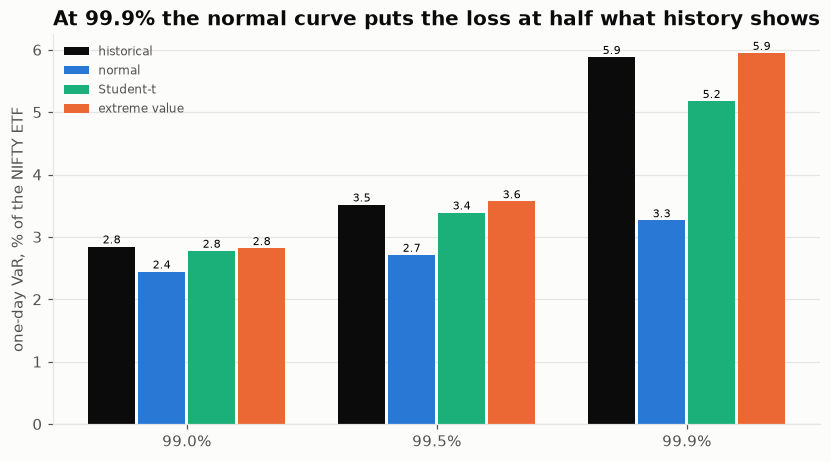
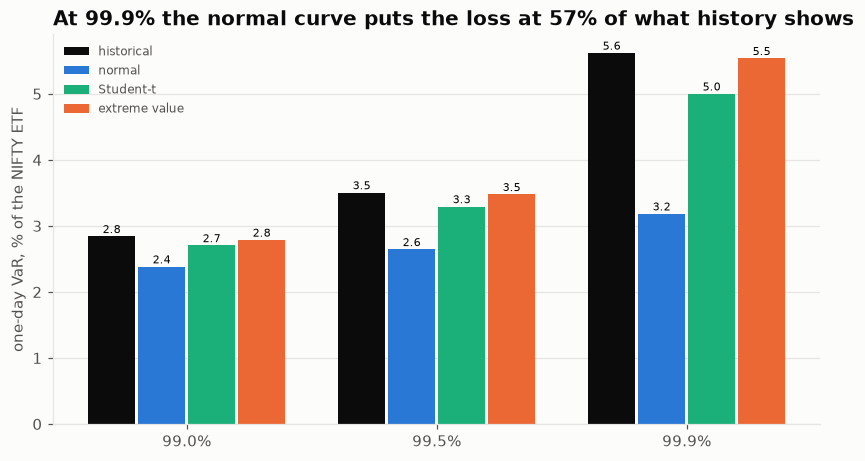
fix: repair a bad NIFTY ETF price on 5 Feb 2010 and restate the findings it distorted
Yahoo's close of 54.50 (the day's high, while NIFTY fell 2.6%) made a fake +10.8% day and a fake
−11.6% day, the ETF's largest loss. With it blanked, excess kurtosis is 14.0 not 17.7, the tail
shape is 0.21 not 0.27, and NIFTY had one 10% fall, not two. Findings 1, 3, 4, 5 and 6 are restated;
the reports now print every number the README quotes, and the EVT formulas handle a zero tail shape.

diff --git a/src/var/reports.py b/src/var/reports.py
@@ -69,7 +69,8 @@ def report_methods(out_dir: Path) -> dict:
              "Monte Carlo, Student-t": plots.SERIES[1]}
     for m, color in marks.items():
         v = -t[m][0] * CAPITAL / 1000
-        ax.axvline(v, color=color, ls="--", lw=1.2, label=f"99% VaR, {m}: ₹{-v:.1f}k")
+        short = {"Monte Carlo, Student-t": "Student-t MC"}.get(m, m)
+        ax.axvline(v, color=color, ls="--", lw=1.2, label=f"VaR, {short}: ₹{-v:.1f}k")
     ax.set_xlim(-60, 25)
     ax.annotate("days worse than −₹60k\npiled at the edge", (-59, 0.002), xytext=(-57, 0.012),
                 fontsize=8, color=plots.TEXT_2, arrowprops=dict(arrowstyle="-", color=plots.MUTED))
@@ -419,6 +420,7 @@ def report_es(out_dir: Path) -> dict:
     fig, ax = plt.subplots(figsize=(9, 4.6))
     years = sorted(set(nifty[names[0]]["x"].index.year))
     xs = np.arange(len(years))
+    gaps = {}
     for j, (k, color) in enumerate((("historical, 250 days", plots.SERIES[1]),
                                     ("filtered historical, EWMA", plots.SERIES[0]))):
         d = nifty[k]
@@ -426,6 +428,7 @@ def report_es(out_dir: Path) -> dict:
         actual = (-d["x"][hit]).groupby(hit[hit].index.year).mean()
         forecast = d["es"][hit].groupby(hit[hit].index.year).mean()
         gap = ((actual - forecast) * 100).reindex(years)
+        gaps[k] = round(float(gap.get(2020, np.nan)), 2)
         ax.bar(xs - 0.2 + 0.4 * j, gap, 0.38, color=color, label=k)
     ax.axhline(0, color=plots.TEXT, lw=1)
     ax.set_xticks(xs, years, fontsize=8)
@@ -435,10 +438,12 @@ def report_es(out_dir: Path) -> dict:
     ax.set_title("When breached, losses beat the one-year forecast most in 2020")
     plots.save(fig, out_dir, "es_by_year")
 
-    return {port: {k: (f"ES97.5 {v['es_mean']:.2%}", f"VaR99 {v['var99_mean']:.2%}",
-                       f"ratio {v['es_mean'] / v['var99_mean']:.2f}",
-                       f"breach97.5 {v['breach']:.2%}", f"Z2 {v['z2']:.3f}", f"p {v['p']:.3f}")
-                   for k, v in rows.items()} for port, rows in res.items()}
+    out = {port: {k: (f"ES97.5 {v['es_mean']:.2%}", f"VaR99 {v['var99_mean']:.2%}",
+                      f"ratio {v['es_mean'] / v['var99_mean']:.2f}",
+                      f"breach97.5 {v['breach']:.2%}", f"Z2 {v['z2']:.3f}", f"p {v['p']:.3f}")
+                  for k, v in rows.items()} for port, rows in res.items()}
+    out["2020 gap, actual loss minus ES on breach days (pts)"] = gaps
+    return out
 
 
 def _t_var(p: pd.Series, q: float) -> float:
@@ -503,7 +508,8 @@ def report_evt(out_dir: Path) -> dict:
     ax.set_ylabel("one-day VaR, % of the NIFTY ETF")
     ax.grid(axis="x", visible=False)
     ax.legend(loc="upper left", fontsize=8)
-    ax.set_title("At 99.9% the normal curve puts the loss at half what history shows")
+    share = table[0.999]["normal"] / table[0.999]["historical"]
+    ax.set_title(f"At 99.9% the normal curve puts the loss at {share:.0%} of what history shows")
     plots.save(fig, out_dir, "evt_levels")
 
     rng = np.random.default_rng(0)
@@ -598,7 +604,7 @@ def report_decomp(out_dir: Path) -> dict:
     h = books["70% NIFTY / 30% gold"]
     c = component_es(Rs, h)
     marginal = c / pd.Series(h)
-    sizes = np.linspace(0, 1_000_000, 21)
+    sizes = np.r_[0.0, 10_000.0, np.linspace(50_000, 1_000_000, 20)]
     inc = {s: [incremental_es(Rs, h, s, a) if a else 0.0 for a in sizes]
            for s in ("NIFTYBEES", "GOLDBEES")}
     fig, ax = plt.subplots(figsize=(9, 4.6))
@@ -647,8 +653,20 @@ def report_decomp(out_dir: Path) -> dict:
         "70/30 ES97.5 ₹": round(c.sum()),
         "marginal ES per ₹ (70/30)": marginal.round(4).to_dict(),
         "incremental ES ₹ (recomputed, marginal) at 0.1/1/3/10 lakh": {
-            s: [(round(inc[s][i]), round(marginal[s] * sizes[i])) for i in (0, 2, 6, 20)]
+            s: [(round(inc[s][i]), round(marginal[s] * sizes[i]))
+                for i in (int(np.flatnonzero(sizes == a)[0])
+                          for a in (10_000, 100_000, 300_000, 1_000_000))]
             for s in inc},
+        "gold's share of 70/30 ES97.5 by window (days)": {
+            w: f"{(c_ := component_es(R.iloc[-w:], h))['GOLDBEES'] / c_.sum():.1%}"
+            for w in (250, 750, 1250)},
+        "last 250 days daily vol, gold / NIFTY ETF": tuple(
+            f"{R[k].iloc[-250:].std():.2%}" for k in ("GOLDBEES", "NIFTYBEES")),
+        "gold's worst days, last 250": {f"{d:%d %b %Y}": f"{v:.1%}"
+                                        for d, v in R["GOLDBEES"].iloc[-250:].nsmallest(2).items()},
+        "4-5 Jun 2024, NIFTY index / NIFTY ETF": {
+            f"{d:%d %b}": (f"{R.loc[d, 'NIFTY']:.1%}", f"{R.loc[d, 'NIFTYBEES']:.1%}")
+            for d in pd.to_datetime(["2024-06-04", "2024-06-05"])},
         "99% one-day VaR ₹": {n: round(v) for n, v in var99.items()},
         "stress ₹ (loss, × VaR99)": {
             n: {sc: (round(-d["pnl"].sum()), round(-d["pnl"].sum() / var99[n], 1))

diff --git a/src/var/evt.py b/src/var/evt.py
@@ -13,6 +13,8 @@ with shape xi (tail fatness: 0 = exponential like a normal's tail, > 0 = power l
 import numpy as np
 from scipy.stats import genpareto
 
+SMALL = 1e-6  # |xi| below this uses the exponential (xi -> 0) formulas
+
 
 def fit_tail(returns, threshold_q: float = 0.95) -> dict:
     """Fit a GPD to the losses beyond the `threshold_q` quantile of losses."""
@@ -27,6 +29,8 @@ def fit_tail(returns, threshold_q: float = 0.95) -> dict:
 
 def evt_var(t: dict, q: float) -> float:
     xi, beta, u, share = t["xi"], t["beta"], t["u"], t["share"]
+    if abs(xi) < SMALL:  # exponential limit
+        return float(u - beta * np.log((1 - q) / share))
     return float(u + beta / xi * (((1 - q) / share) ** (-xi) - 1))
 
 
@@ -36,6 +40,8 @@ def evt_es(t: dict, q: float) -> float:
 
 
 def exceed_probability(t: dict, loss: float) -> float:
-    """Daily probability of a loss bigger than `loss` (a positive fraction)."""
+    """Daily probability of a loss bigger than `loss` (a positive fraction, at or above u)."""
     xi, beta, u, share = t["xi"], t["beta"], t["u"], t["share"]
+    if abs(xi) < SMALL:  # exponential limit
+        return float(share * np.exp(-(loss - u) / beta))
     return float(share * (1 + xi * (loss - u) / beta) ** (-1 / xi))

diff --git a/tests/test_evt.py b/tests/test_evt.py
@@ -33,3 +33,13 @@ def test_evt_var_and_es_match_the_true_quantiles():
 def test_exceed_probability_inverts_var():
     t = fit_tail(_pareto_losses(), threshold_q=0.95)
     assert exceed_probability(t, evt_var(t, 0.999)) == pytest.approx(0.001, rel=1e-6)
+
+
+def test_zero_tail_shape_uses_the_exponential_limit():
+    t = {"xi": 0.0, "beta": 0.01, "u": 0.02, "share": 0.05}
+    # exponential tail: P(loss > x) = share * exp(-(x - u) / beta)
+    assert exceed_probability(t, 0.05) == pytest.approx(0.05 * np.exp(-3), rel=1e-9)
+    assert evt_var(t, 0.999) == pytest.approx(0.02 + 0.01 * np.log(50), rel=1e-9)
+    assert evt_es(t, 0.999) == pytest.approx(evt_var(t, 0.999) + 0.01, rel=1e-9)
+    near = dict(t, xi=1e-9)
+    assert evt_var(near, 0.999) == pytest.approx(evt_var(t, 0.999), rel=1e-6)

diff --git a/README.md b/README.md
@@ -8,8 +8,8 @@ How much a portfolio can lose on a bad day, measured the ways risk desks do and 
 simulation, extreme value theory, risk decomposition, stress tests and option positions.
 
 **Live calculator: [dhirajdas18.github.io/value-at-risk](https://dhirajdas18.github.io/value-at-risk/)**.
-Enter rupee holdings in any of today's NIFTY 50 stocks or the NIFTY and gold ETFs and get 1-day and 10-day
-VaR and expected shortfall. It runs in your browser on five years of daily returns, rebuilt weekly; nothing
+Enter rupee holdings in any of today's NIFTY 50 stocks or the NIFTY and gold ETFs and get 1-day VaR and expected
+shortfall by four methods, 10-day historical VaR, each holding's share of the risk and four replayed crashes. It runs in your browser on five years of daily returns, rebuilt weekly; nothing
 you enter leaves the page.
 
 ## Features
@@ -25,7 +25,7 @@ you enter leaves the page.
 
 ## Findings
 
-### 1. A normal curve put NIFTY's 99% one-day loss 14% too low and its expected shortfall 32% too low
+### 1. A normal curve put NIFTY's 99% one-day loss 16% too low and its expected shortfall 31% too low
 
 <a href="docs/img/methods_distribution.png"><picture><source media="(prefers-reduced-motion: reduce)" srcset="docs/img/methods_distribution.png"><img src="docs/img/methods_distribution.gif" alt="Daily profit and loss on 10 lakh rupees in the NIFTY ETF with 99% VaR by three methods" width="720"></picture></a>
 
@@ -36,19 +36,19 @@ shortfall (ES) is the average loss on those days.
 
 | ₹10 lakh, 99%, one day | Historical | Normal | Monte Carlo, normal | Monte Carlo, Student-t |
 |---|---|---|---|---|
-| NIFTY ETF: VaR / ES | ₹28,457 / ₹41,419 | ₹24,436 / ₹28,078 | ₹24,555 / ₹28,250 | ₹27,881 / ₹38,845 |
+| NIFTY ETF: VaR / ES | ₹28,415 / ₹39,485 | ₹23,830 / ₹27,383 | ₹23,946 / ₹27,551 | ₹27,134 / ₹36,779 |
 | 5 large stocks | ₹28,362 / ₹40,288 | ₹25,385 / ₹29,192 | ₹25,635 / ₹29,362 | ₹29,127 / ₹39,897 |
-| 70% NIFTY / 30% gold | ₹19,573 / ₹31,263 | ₹18,114 / ₹20,833 | ₹18,206 / ₹20,923 | ₹20,748 / ₹28,282 |
+| 70% NIFTY / 30% gold | ₹19,542 / ₹30,027 | ₹17,788 / ₹20,459 | ₹17,877 / ₹20,548 | ₹20,239 / ₹27,977 |
 
-- **The bell curve is too thin in the tail:** for the NIFTY ETF, normal VaR was 14% below historical and
-  normal ES 32% below. The normal 99% VaR was breached on 1.45% of days instead of 1%.
+- **The bell curve is too thin in the tail:** for the NIFTY ETF, normal VaR was 16% below historical and
+  normal ES 31% below. The normal 99% VaR was breached on 1.50% of days instead of 1%.
 - **Monte Carlo is only as good as its assumption:** with normal draws it reproduced the normal formula;
-  with Student-t draws matched to the data's fat tails (4.3 degrees of freedom) it came within 2% of
-  historical VaR and 6% of historical ES.
+  with Student-t draws matched to the data's fat tails (4.4 degrees of freedom) it came within 5% of
+  historical VaR and 7% of historical ES.
 - **Cornish-Fisher broke:** its correction for skew and fat tails is only valid while the corrected curve
   keeps rising, which fails above an excess kurtosis of 8 when there is no skew (its slope at the centre is
-  1 − 3K/24); NIFTY's daily returns had 17.7, and it returned an absurd ₹67,903. The calculator checks this and says so.
-- **Gold cut the risk:** moving 30% into gold lowered historical VaR from ₹28,457 to ₹19,573.
+  1 − 3K/24); NIFTY's daily returns had 14.0, and it returned an absurd ₹56,438. The calculator checks this and says so.
+- **Gold cut the risk:** moving 30% into gold lowered historical VaR from ₹28,415 to ₹19,542.
 
 <table><tr>
 <td><a href="docs/img/methods_compare.png"><picture><source media="(prefers-reduced-motion: reduce)" srcset="docs/img/methods_compare.png"><img src="docs/img/methods_compare.gif" alt="99% VaR and expected shortfall by method for three portfolios"></picture></a></td>
@@ -56,9 +56,9 @@ shortfall (ES) is the average loss on those days.
 </tr></table>
 
 - **The √10 shortcut (right):** regulators scale one-day VaR to ten days by √10. On the NIFTY ETF that
-  matched actual ten-day VaR (from overlapping ten-day windows) at 95% (4.8% vs 4.9%) but overstated it at
-  99% (9.0% vs 7.7%) and 99.5% (11.1% vs 9.2%). Ten-day returns have thinner tails than daily ones: excess
-  kurtosis 17.8 for daily returns against 8.4 for non-overlapping ten-day returns.
+  matched actual ten-day VaR (from overlapping ten-day windows) at 95% (4.8% vs 4.8%) but overstated it at
+  99% (9.0% vs 7.7%) and 99.5% (11.1% vs 9.0%). Ten-day returns have thinner tails than daily ones: excess
+  kurtosis 14.0 for daily returns against 8.4 for non-overlapping ten-day returns.
 
 ### 2. Only a slow VaR breached as often as promised, and its breaches came in bunches
 
@@ -106,12 +106,12 @@ refitted monthly on the previous 500 days; shocks from the previous 500 days. Sa
 | Historical, 1000 days | 1.08% | yes (0.63) | 18.9% (p < 0.01) | 16 (red) |
 | EWMA volatility, normal curve | 2.05% | no (p < 0.01) | 1.4% | 12 (red) |
 | **Filtered historical, EWMA** | **1.08%** | **yes (0.63)** | **2.7% (p = 0.42)** | **8** |
-| Filtered historical, GARCH | 1.29% | yes (0.10) | 2.3% (p = 0.60) | 8 |
+| Filtered historical, GARCH | 1.23% | yes (0.19) | 2.4% (p = 0.55) | 8 |
 
 - **Two ingredients, two fixes:** scaling by current volatility fixed the timing (EWMA with a normal curve
   stopped clustering, 1.4% repeat breaches) but not the count (2.05%); keeping history's fat-tailed shocks
   fixed the count. Filtered historical simulation has both.
-- **Cheaper on average:** its average VaR was 2.34% of the portfolio against 2.51% for the 1000-day method,
+- **Cheaper on average:** its average VaR was 2.34% of the portfolio against 2.50% for the 1000-day method,
   with the same breach count.
 - **Five stocks agree:** filtered historical, EWMA breached 1.08% of days there too, with no clustering.
 
@@ -139,7 +139,7 @@ from 1,000 simulations drawn from each day's own forecast distribution.
 | 97.5% ES, 2013–2026 | NIFTY ETF: ES vs 99% VaR | Z2 (p) | 5 large stocks: Z2 (p) |
 |---|---|---|---|
 | Historical, 250 days | 2.40% vs 2.35% | −0.42 (p < 0.01) | −0.32 (p = 0.06) |
-| Historical, 1000 days | 2.77% vs 2.51% | +0.05 (p = 0.66) | +0.00 (p = 0.47) |
+| Historical, 1000 days | 2.74% vs 2.50% | +0.04 (p = 0.63) | +0.00 (p = 0.47) |
 | Normal, 250 days | 2.03% vs 2.02% | −0.61 (p < 0.01) | −0.50 (p < 0.01) |
 | Filtered historical, EWMA | 2.37% vs 2.34% | −0.13 (p = 0.21) | −0.10 (p = 0.30) |
 
@@ -159,7 +159,7 @@ from 1,000 simulations drawn from each day's own forecast distribution.
   one-year historical ES forecast by 1.3 points on average in 2020; filtered historical's gap that year was
   0.5 points.
 
-### 5. A 10% one-day fall is a once-in-23-years event by extreme value theory and impossible by a normal curve; NIFTY had two
+### 5. A 10% one-day fall is a once-in-40-years event by extreme value theory and impossible by a normal curve; NIFTY had one in 18 years
 
 <a href="docs/img/evt_tail.png"><picture><source media="(prefers-reduced-motion: reduce)" srcset="docs/img/evt_tail.png"><img src="docs/img/evt_tail.gif" alt="Share of days with a loss bigger than each size for the NIFTY ETF, against normal, Student-t and extreme value fits" width="720"></picture></a>
 
@@ -167,33 +167,32 @@ Extreme value theory fits only the tail: here the 221 days (5%) with the biggest
 January 2009 to November 2026, modelled with a generalised Pareto distribution (peaks over threshold). Its
 shape ξ measures how fat the tail is: 0 is a thin, normal-like tail; above 0 the tail decays like a power.
 
-- **NIFTY's tail is fat:** ξ = 0.27 (90% bootstrap range 0.14 to 0.39), and above zero at every threshold
-  tried from the 90th to the 97.5th percentile.
+- **NIFTY's tail is fat:** ξ = 0.21 (90% bootstrap range 0.08 to 0.31), and the lower end of the range stays
+  above zero at every threshold tried from the 90th to the 97.5th percentile.
 
 | One-day loss bigger than | Days it happened (17.9 years) | Extreme value: once every | Student-t | Normal curve |
 |---|---|---|---|---|
-| 5% | 8 | 2.3 years | 3.5 years | 3,200 years |
-| 8% | 2 | 10.9 years | 23.9 years | 10¹¹ years |
-| 10% | 2 | 23.4 years | 60.8 years | 10¹⁸ years |
-| 13% | 0 | 58.4 years | 185 years | 10³¹ years |
+| 5% | 7 | 2.8 years | 4.0 years | 5,700 years |
+| 8% | 1 | 16.4 years | 28.5 years | 10¹¹ years |
+| 10% | 1 | 40.0 years | 74.1 years | 10¹⁹ years |
+| 13% | 0 | 118 years | 231 years | 10³² years |
 
-- **Even the extreme value fit was surprised:** the two biggest losses, both in March 2020 (10.2% and 11.6%),
-  sit above its curve. With 18 years of data, two such days can't settle whether the true rate is once in 23
-  years or once in 9.
+- **One day can't settle the far tail:** the biggest loss, 10.2% on 23 March 2020, sits above the extreme
+  value curve. With one such day in 17.9 years, the 90% Poisson range for its rate runs from once in 3.8 years to once in 349.
 
 <table><tr>
 <td><a href="docs/img/evt_levels.png"><picture><source media="(prefers-reduced-motion: reduce)" srcset="docs/img/evt_levels.png"><img src="docs/img/evt_levels.gif" alt="One-day VaR at 99, 99.5 and 99.9 percent by historical, normal, Student-t and extreme value methods"></picture></a></td>
 <td><a href="docs/img/evt_threshold.png"><picture><source media="(prefers-reduced-motion: reduce)" srcset="docs/img/evt_threshold.png"><img src="docs/img/evt_threshold.gif" alt="Estimated tail shape xi at five thresholds with 90 percent bootstrap ranges"></picture></a></td>
 </tr></table>
 
-- **At 99.9% (left):** VaR was 5.88% by history (resting on 5 days), 5.95% by extreme value theory (resting
-  on 221), 5.18% by Student-t and 3.26% by a normal curve. ES at 99.9%: 8.41% historical, 8.42% extreme value.
+- **At 99.9% (left):** VaR was 5.62% by history (resting on 5 days), 5.54% by extreme value theory (resting
+  on 221), 5.00% by Student-t and 3.18% by a normal curve. ES at 99.9%: 7.25% historical, 7.46% extreme value.
 - **Split test:** fitted on 2009–2019 and tested on 2020–2026 (1.7 breaches of a 99.9% VaR expected),
-  historical, Student-t and extreme value VaR were each breached 3 times, all in March 2020 (Poisson
-  p = 0.25); the normal curve 9 times (p < 0.01). Extreme value theory didn't beat plain history at 99.9%;
-  its value is a smooth tail that rests on many days and extends beyond the worst day seen.
+  historical, Student-t and extreme value VaR were each breached 4 times (Poisson p = 0.09); the normal curve
+  9 times (p < 0.01). Extreme value theory didn't beat plain history at 99.9%; its value is a smooth tail that
+  rests on many days and extends beyond the worst day seen.
 
-### 6. The COVID crash cost 12 times the NIFTY ETF's 99% one-day VaR in 21 trading days; gold carried 14% of a 70/30 portfolio's risk over 18 years and 67% in the last one
+### 6. The COVID crash cost 12 times the NIFTY ETF's 99% one-day VaR in 21 trading days; gold carried 15% of a 70/30 portfolio's risk over 18 years and 68% in the last one
 
 <a href="docs/img/stress_scenarios.png"><picture><source media="(prefers-reduced-motion: reduce)" srcset="docs/img/stress_scenarios.png"><img src="docs/img/stress_scenarios.gif" alt="Loss on 10 lakh rupees held today in four historical episodes, for three portfolios, against the NIFTY ETF's 99% one-day VaR" width="720"></picture></a>
 
@@ -213,8 +212,9 @@ cost. Losses on ₹10 lakh, and as a multiple of each portfolio's 99% one-day hi
 
 - **Gold didn't cushion demonetisation:** the gold ETF fell 9.8% and the NIFTY ETF 8.4%, so the 70/30 mix
   lost more than NIFTY alone.
-- **Election day, ETF against index:** NIFTY fell 5.9% on 4 June 2024 but the ETF's traded price fell 3.0%,
-  and it rose 0.3% the next day against the index's 3.4%. The stress uses the price you could have sold at.
+- **Election day, ETF against index:** on Yahoo's closing prices NIFTY fell 5.9% on 4 June 2024 and the ETF
+  3.0%; the next day they rose 3.4% and 0.3%, so over the two days both fell 2.7%. Not checked against NSE's
+  own closing prices; the one-day scenario uses Yahoo's close.
 
 <table><tr>
 <td><a href="docs/img/decomp_shares.png"><picture><source media="(prefers-reduced-motion: reduce)" srcset="docs/img/decomp_shares.png"><img src="docs/img/decomp_shares.gif" alt="Each holding's share of the money and of the 97.5% expected shortfall in two portfolios"></picture></a></td>
@@ -224,14 +224,14 @@ cost. Losses on ₹10 lakh, and as a multiple of each portfolio's 99% one-day hi
 - **Risk by holding (left):** each holding's component expected shortfall is its average loss on the
   portfolio's worst 2.5% of days; the components add up exactly to the portfolio's 97.5% ES. In the 5-stock
   portfolio, equal money gave INFY 25% of the risk and ITC 16%. In the 70/30 mix, gold was 30% of the money
-  and 14% of the risk (the normal-curve VaR split says 13%).
-- **The split depends on the window:** gold's share of the 70/30 risk was 14% over 2009–2026, 30% over the
-  last 5 years, 47% over the last 3 and 67% over the last year. Over that year gold's daily volatility was
+  and 15% of the risk (the normal-curve VaR split says 14%).
+- **The split depends on the window:** gold's share of the 70/30 risk was 15% over 2009–2026, 30% over the
+  last 5 years, 48% over the last 3 and 68% over the last year. Over that year gold's daily volatility was
   2.0% against NIFTY's 0.86%, and it fell 10.5% on 30 January 2026 and 9.5% on 2 February.
-- **Marginal against recomputed (right):** each extra rupee of NIFTY added 2.77 paise of ES and each rupee of
-  gold 1.06 paise. That slope matched a full recomputation for ₹10,000 trades. For ₹1 lakh it was 2% short for
-  NIFTY and 12% short for gold; for ₹10 lakh, 6% and 46% short. The marginal is the slope at today's mix, and
-  the recomputed curve for gold bends upward.
+- **Marginal against recomputed (right):** each extra rupee of NIFTY added 2.69 paise of ES and each rupee of
+  gold 1.08 paise. That slope came within ₹1 of a full recomputation for ₹10,000 trades. For ₹1 lakh it was
+  2% short for NIFTY and 12% short for gold; for ₹10 lakh, 6% and 46% short. The marginal is the slope at
+  today's mix, and the recomputed curve for gold bends upward.
 
 ### 7. For option books, delta-gamma VaR erred both ways: 25% too low on a short put, 37% too high on a short straddle
 
